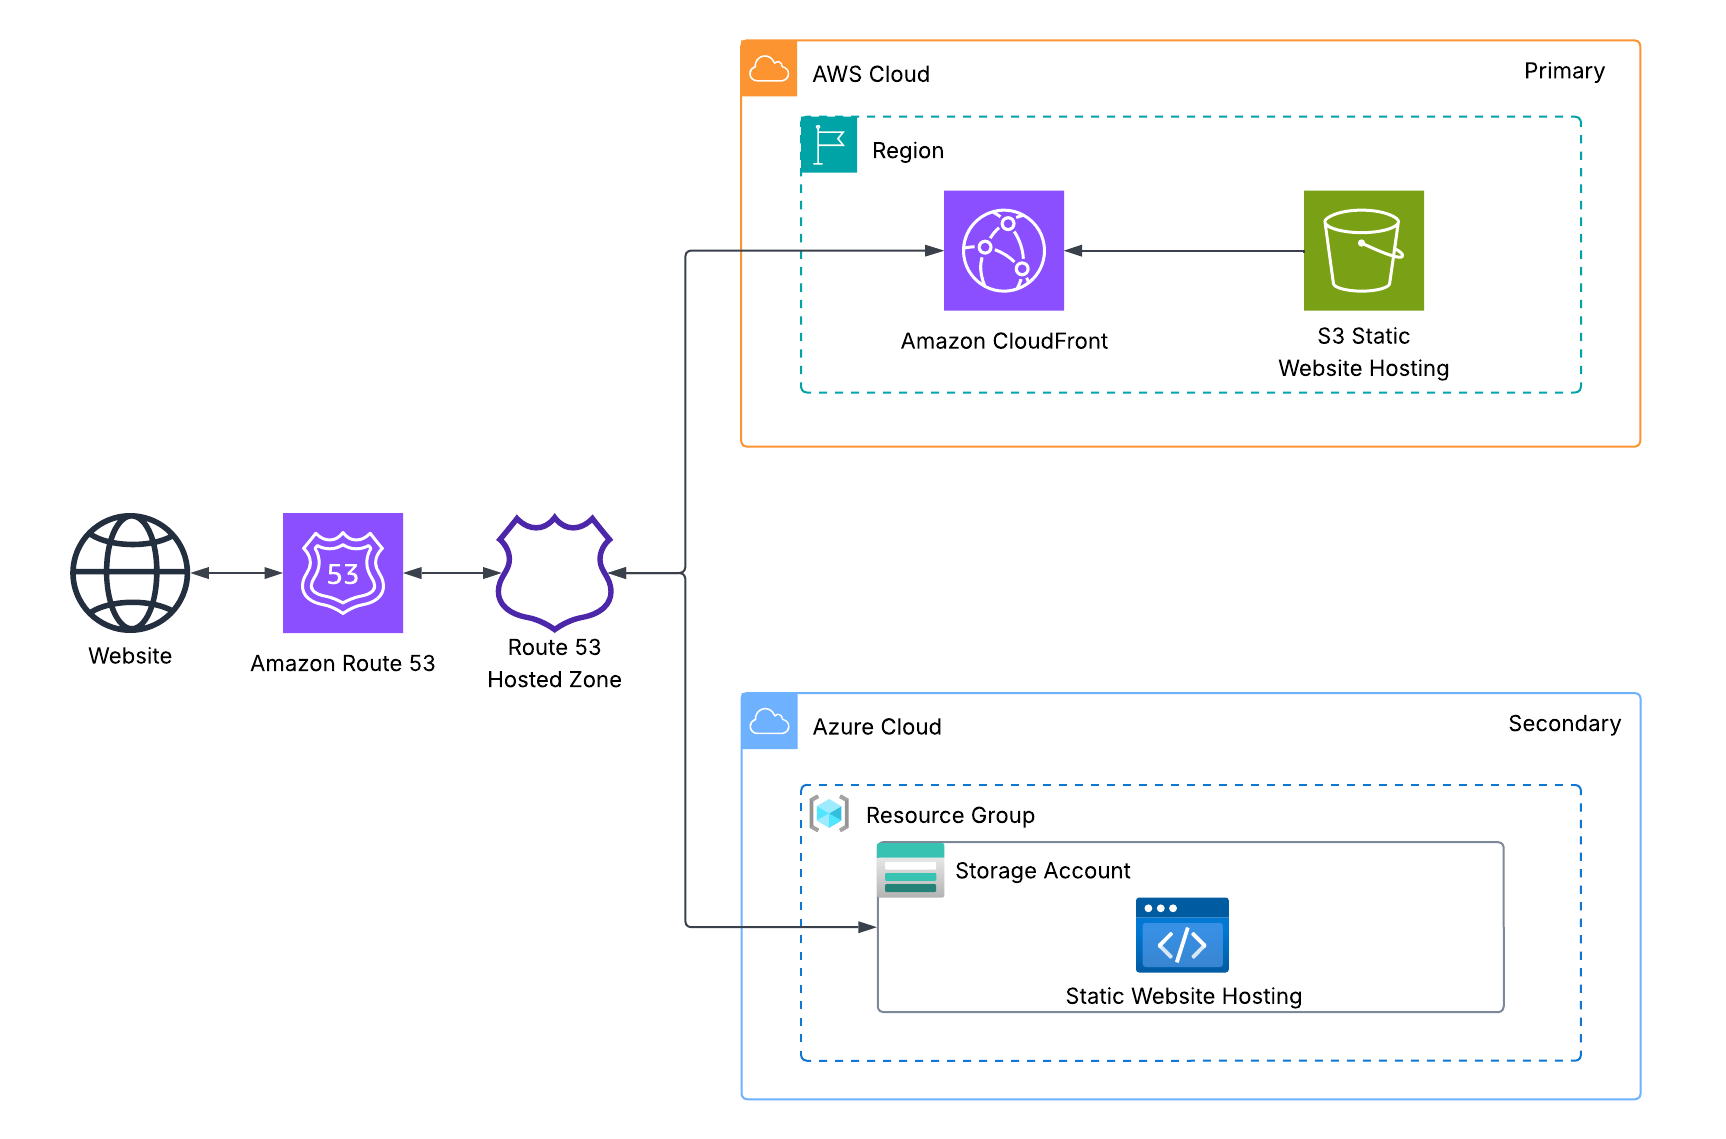
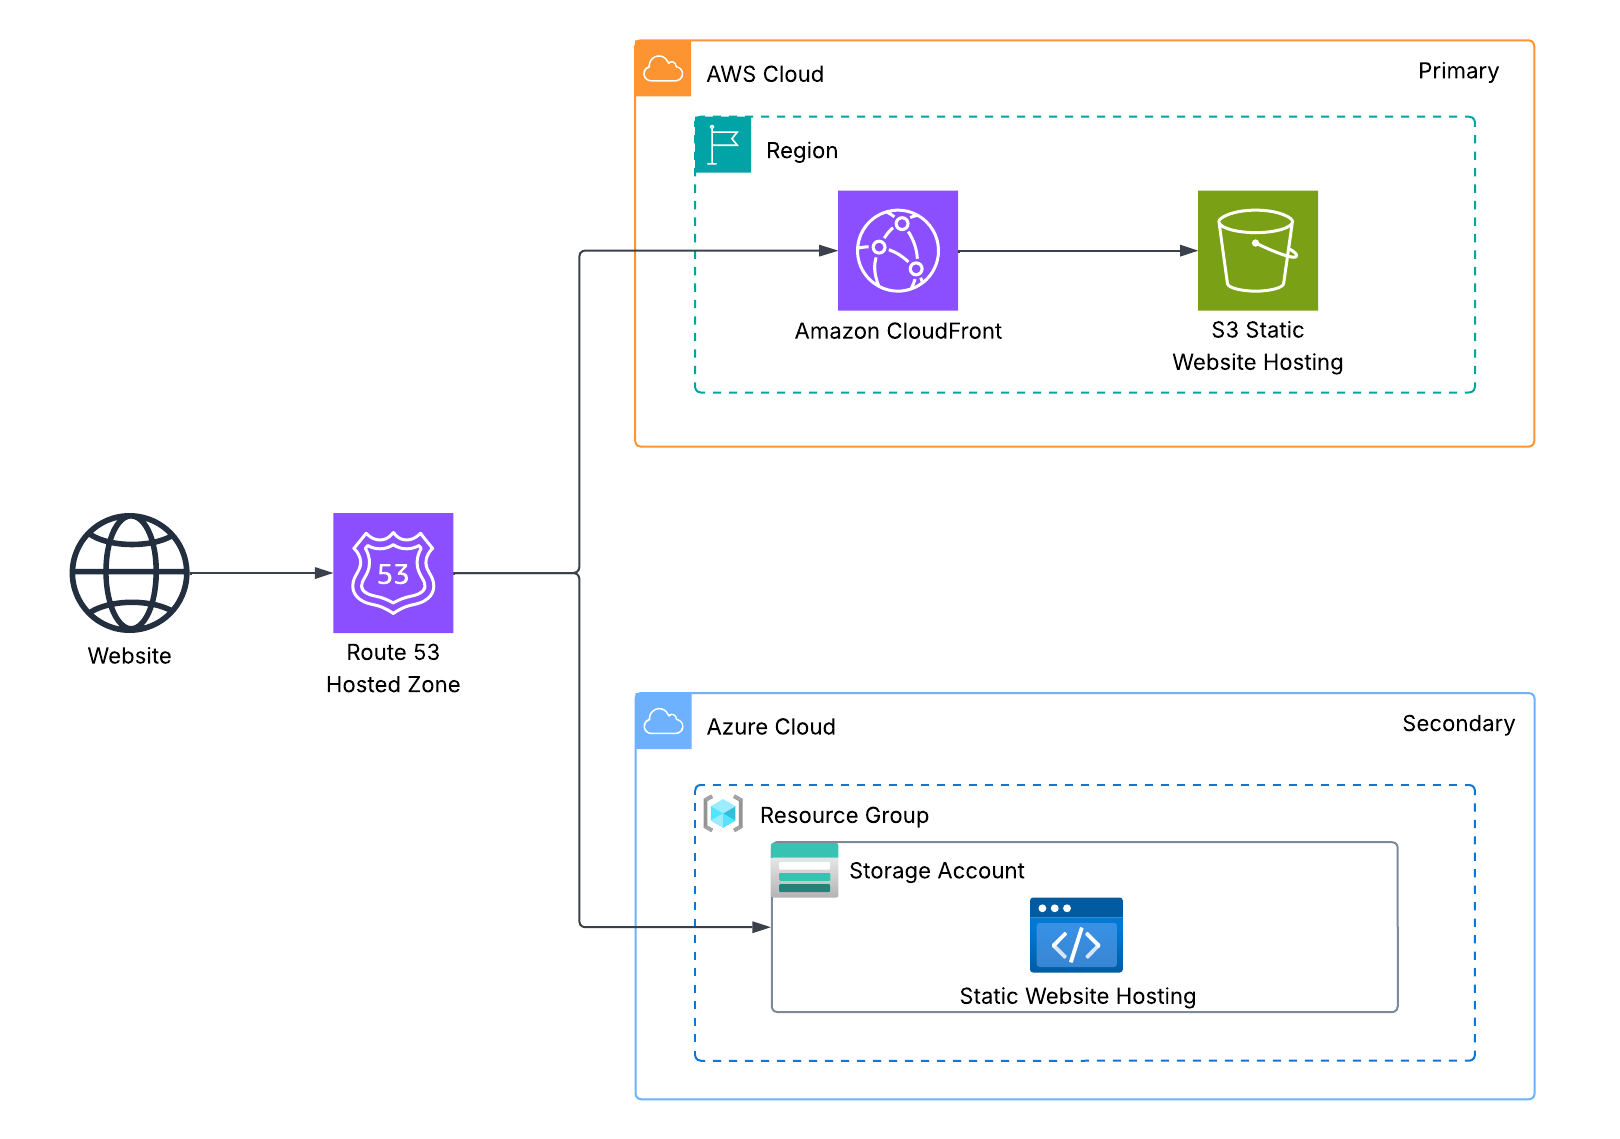
Add tags to Terraform templates, update diagram, and update README.md

diff --git a/README.md b/README.md
@@ -1,23 +1,24 @@
-# AWS/Azure DR Weather Tracker Website
+# AWS/Azure DR Weather Tracker Website  
 A multi-cloud, static **Weather Tracker** website deployed to **AWS (primary)** with **manual DNS failover** to **Azure (secondary)**. The app is fronted by **Amazon CloudFront** for HTTPS and performance. In a DR scenario, DNS shifts traffic to an **Azure Storage Static Website** endpoint served over **HTTP** (by design for this project’s cost constraints).  
 
 **Production note:** For HTTPS on Azure during failover, use **Azure Front Door** or Azure CDN with managed TLS.  
 
-## Architecture Overview
+## Architecture Overview  
 ![Architecture Diagram](assets/architecture-diagram.png)  
 *Figure 1: Architecture diagram of the AWS/Azure DR Weather Tracker Website.*  
 
-#### AWS
+### Core Components  
+#### AWS  
 - **Amazon S3 (Static Website):** Hosts `index.html`, `styles.css`, `script.js`, and asset files using the S3 website endpoint.  
 - **Amazon CloudFront:** Global CDN in front of the S3 website endpoint with TLS; HSTS intentionally omitted to allow HTTP-based DR.  
 - **Amazon Route 53:** Public DNS with **weighted CNAME** records on `www` for manual failover/fail back between AWS and Azure; also publishes the `asverify` CNAME for Azure validation.  
 - **AWS Certificate Manager (ACM):** TLS certificate for `www.<domain>` issued in **us-east-1** for CloudFront.  
 
-#### Azure
+#### Azure  
 - **Azure Resource Group:** Logical container for DR resources.  
 - **Azure Storage Account (Static Website):** `$web` container serves the same site files; custom domain mapping is validated via `asverify` and re-applied on each Terraform run; HTTP is allowed for DR to keep costs down (no Front Door).  
 
-## Skills Applied
+## Skills Applied  
 - Designing a **multi-cloud DR** pattern using weighted **DNS** to shift traffic between providers.  
 - Authoring **Terraform** for AWS and Azure resources, variables, and reusable locals.  
 - Implementing **CloudFront** with a **custom origin** (S3 website endpoint) and **no HSTS** headers to enable HTTP DR.  
@@ -25,60 +26,60 @@ A multi-cloud, static **Weather Tracker** website deployed to **AWS (primary)** 
 - Automating cross-cloud **asset uploads** and **content types** for static assets.  
 - Orchestrating **manual failover** and **fail back** using Terraform variables (record weights).  
 
-## Features
+## Features  
 - **Primary on AWS:** Fast, global delivery via CloudFront with HTTPS.  
 - **Manual DR Toggle:** Route 53 weighted records switch traffic to Azure (and back).  
 - **Zero-downtime content updates:** Terraform syncs files; CloudFront handles caching.  
-- **Cost-aware Failover:** Azure DR serves **HTTP** only (no Front Door), documented trade-off.   
+- **Cost-aware Failover:** Azure DR serves **HTTP** only (no Front Door), documented trade-off.  
 - **Custom Domain on Azure:** Validated via **asverify** CNAME for clean host header handling.  
 
-## Tech Stack
+## Tech Stack  
 - **Languages:** HTML, CSS, JavaScript  
 - **AWS Services:** S3 (Website), CloudFront, Route 53, ACM  
 - **Azure Services:** Resource Group, Storage (Static Website)  
 - **IaC Tool:** Terraform (AWS + Azure providers)  
 - **Other Tools:** AWS CLI, Azure CLI (`az`), Namecheap (domain registrar)  
 
-## Deployment Instructions
-> **Note:** All command-line examples use `bash` syntax highlighting to maximize compatibility and readability. If you are using PowerShell or Command Prompt on Windows, the commands remain the same but prompt styles may differ.  
+## Deployment Instructions  
+> **Note:** Many commands are identical across shells; the main differences are line continuation (PowerShell: `` ` `` • Bash: `\` • cmd.exe: `^`), environment variables (PowerShell: `$env:NAME=...` • Bash: `NAME=...` • cmd.exe: `set NAME=...`), and path separators.  
 
-### Domain Name and Certificate
+### Domain Name and Certificate  
 1. Purchase a domain (Namecheap used here) and create a **Public hosted zone** for it in Route 53.  
 
 2. In your registrar, set the domain’s **nameservers** to the 4 NS values from your Route 53 hosted zone.  
 
 3. Request an **ACM certificate** in **us-east-1** for:  
-   - `www.<domain>` (required for CloudFront)
-   - `<domain>` (apex, optional if you’ll later add an apex → www redirect)
+   - `www.<domain>` (required for CloudFront)  
+   - `<domain>` (apex, optional if you’ll later add an apex → www redirect)  
 
 4. Choose **DNS validation** and click **Create records in Route 53** on the certificate to add the validation CNAMEs.  
 
 5. Wait until the certificate shows **Issued**.  
 
-### Azure Configuration
+### Azure Configuration  
 6.  Run `az login` and select a Subscription ID to deploy resources.  
 
 7. Register an application in Azure Entra ID:  
-	```bash
-    `az ad sp create-for-rbac --role="Contributor" --scopes="/subscriptions/<subscription-id>"
+    ```bash
+	az ad sp create-for-rbac --role="Contributor" --scopes="/subscriptions/<subscription-id>"
 	```
 
-### **Terraform** 
+### Terraform  
 8. Clone this repository.  
 
 9. Edit variables in `terraform.tfvars` and/or `variables.tf` to customize the deployment.  
 
 10. Navigate to the `terraform` folder and deploy:  
     ```bash
-   	cd terraform
-  	terraform init
-   	terraform plan # Optional, but recommended.
-   	terraform apply
-   	```
-    **Note:** The configuration re-applies Azure custom-domain mapping on each `terraform apply`, ensuring Azure serves your custom host during DR.    
+	cd terraform
+	terraform init
+	terraform plan # Optional, but recommended.
+	terraform apply
+	```
+    > **Note:** The configuration re-applies Azure custom-domain mapping on each `terraform apply`, ensuring Azure serves your custom host during DR.  
 
-11. **To manually toggle DR (Azure)**:
-    - In `terraform.tfvars`, set:
+12. **To manually toggle DR (Azure)**:  
+    - In `terraform.tfvars`, set:  
         ```hcl
       	primary_weight = "0"
       	secondary_weight = "100"
@@ -89,8 +90,8 @@ A multi-cloud, static **Weather Tracker** website deployed to **AWS (primary)** 
      	```
     - After ~60s DNS TTL, visit **`http://www.<your-domain>/`** (HTTP on DR is expected).  
 
-12. **To fail back (AWS)**:
-    - In `terraform.tfvars`, set:
+13. **To fail back (AWS)**:  
+    - In `terraform.tfvars`, set:  
     	```hcl
       	primary_weight = "100"
       	secondary_weight = "0"
@@ -101,9 +102,9 @@ A multi-cloud, static **Weather Tracker** website deployed to **AWS (primary)** 
       	```
     - After ~60s DNS TTL, visit **`https://www.<your-domain>/`**.  
 
-**Note:** Ensure the AWS CLI is configured (aws configure) with credentials that have sufficient permissions to manage **S3**, **CloudFront**, **Route 53**, and **AWS Certificate Manager**. Ensure the Azure CLI is configured (az login) with credentials that have sufficient permissions to manage **Resource Groups** and **Storage Accounts**.  
+> **Note**: Ensure the AWS CLI user (`aws configure`) or Terraform assumed role has sufficient permissions to manage **S3**, **CloudFront**, **Route 53**, and **AWS Certificate Manager**. Ensure the Azure CLI user (`az login`) or Terraform assumed role has sufficient permissions to manage **Resource Groups** and **Storage Accounts**.  
 
-## How to Use
+## How to Use  
 1. **Deploy the infrastructure** using Terraform.  
 
 2. **Access the website** at `https://www.<your-domain>/`. If the application was manually failed over, visit `http://www.<your-domain>/` (HTTP on DR is expected).  
@@ -111,36 +112,35 @@ A multi-cloud, static **Weather Tracker** website deployed to **AWS (primary)** 
 3. Select **Your Weather** and **Grant Access**. The application will detect your location and display the weather.  
 
 4. Select **Search Weather** and enter a location. The application will display the weather for that location.  
-		
-## Project Structure
+
+## Project Structure  
 ```plaintext
 aws-azure-dr-weather-tracker-website
 ├── assets/                               # Images, diagrams, screenshots
 │   ├── architecture-diagram.png          # Project architecture diagram
 │   └── application-screenshot.png        # Website UI
 ├── terraform/                            # Terraform templates
-│   ├── main.tf                           # All-in-one stack (AWS + Azure + DNS)
+│   ├── main.tf                           # Main Terraform config (AWS + Azure + DNS)
 │   ├── variables.tf                      # Input variables
-│   ├── outputs.tf                        # Exported values (optional)
+│   ├── outputs.tf                        # Exported values
 │   ├── terraform.tfvars                  # Default variable values
-│   ├── providers.tf                      # Providers
+│   ├── providers.tf                      # AWS/Azure provider definition
 │   └── versions.tf                       # Terraform version constraint
 ├── src/                                  # Website files
 │   ├── assets/                           # Images
 │   ├── index.html                        # Default web page
 │   ├── script.js                         # Weather logic / API calls
 │   └── styles.css                        # Stylesheets
-├── LICENSE
-├── README.md
-└── .gitignore
+├── LICENSE                               
+├── README.md                             
+└── .gitignore                            
 ```
 
-## Screenshot
+## Screenshot  
 ![AWS/Azure DR Weather Tracker](assets/application-screenshot.png)  
-
 *Figure 2: AWS/Azure DR Weather Tracker Application UI.*  
 
-## Future Enhancements
+## Future Enhancements  
 - **CloudFront OAC with private S3 origin:** Migrate from the public S3 website endpoint to the **S3 REST endpoint** secured by **CloudFront Origin Access Control (OAC)**. Block all public access on the bucket, allow only the CloudFront distribution via OAC, and use CloudFront’s **default root object** plus **custom error responses** (200 → `/index.html`) to preserve **single-page application (SPA)-style** routing without S3 website hosting.  
 - **Automatic failover with health checks:** Replace weighted records with **Route 53 PRIMARY/SECONDARY** and **HTTPS health checks** against CloudFront (primary) and Azure (secondary).  
 - **HTTPS on Azure DR:** Front the Azure static website with **Azure Front Door** (or Azure CDN) for managed TLS, then re-enable **HSTS** in CloudFront for strict end-to-end HTTPS.  
@@ -149,18 +149,18 @@ aws-azure-dr-weather-tracker-website
 - **Security hardening:** Add **Content Security Policy**, **Referrer-Policy**, and stricter headers in CloudFront; once HTTPS exists on both clouds, enable **HSTS** with an appropriate max-age and consider **AWS WAF**.  
 
 
-## License
+## License  
 This project is licensed under the [MIT License](LICENSE).  
 
 ---
 
-## Author
+## Author  
 **Patrick Heese**  
 Cloud Administrator | Aspiring Cloud Engineer/Architect  
 [LinkedIn Profile](https://www.linkedin.com/in/patrick-heese/) | [GitHub Profile](https://github.com/patrick-heese)  
 
-## Acknowledgments
+## Acknowledgments  
 This project was inspired by a course from [techwithlucy](https://github.com/techwithlucy).  
 The website source code and assets are taken directly from the author's original implementation.  
 The architecture diagram included here is my own version, adapted from the original course diagram.   
-I designed and developed all Infrastructure-as-Code (Terraform) and project documentation.  
+I designed and developed all Infrastructure as Code (Terraform) and project documentation.  
